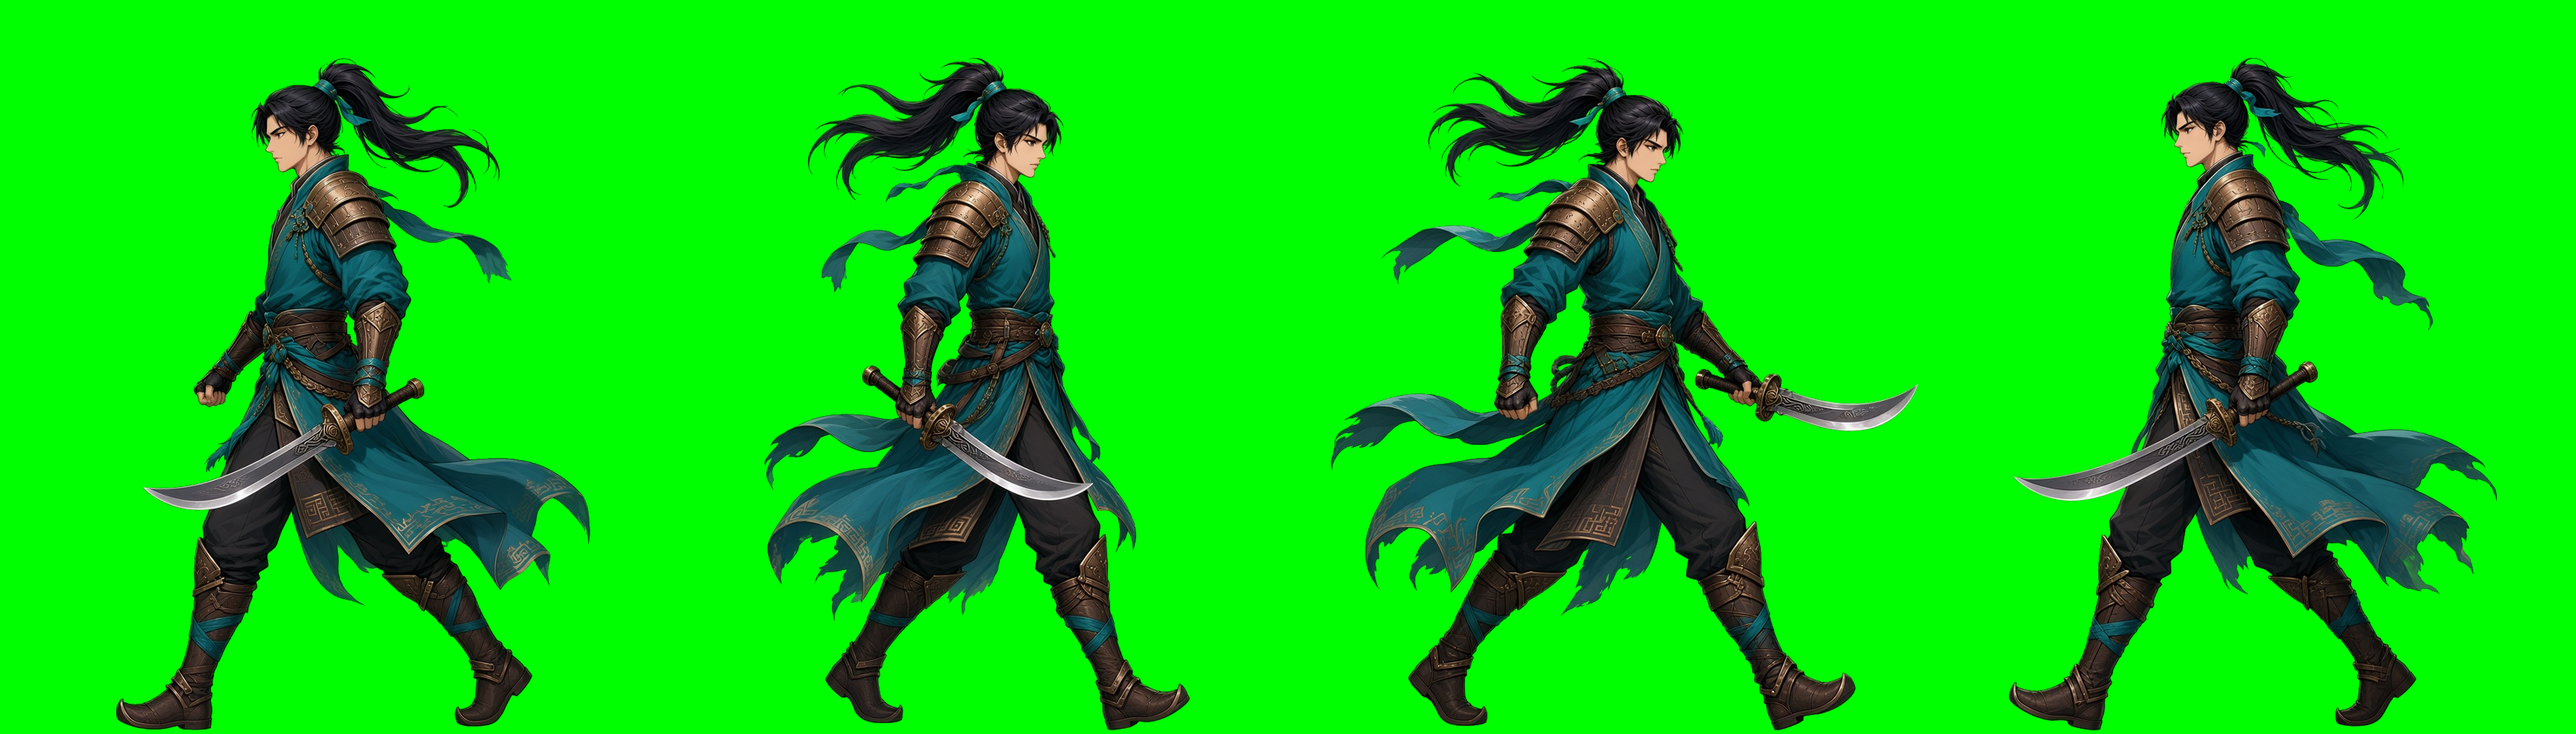
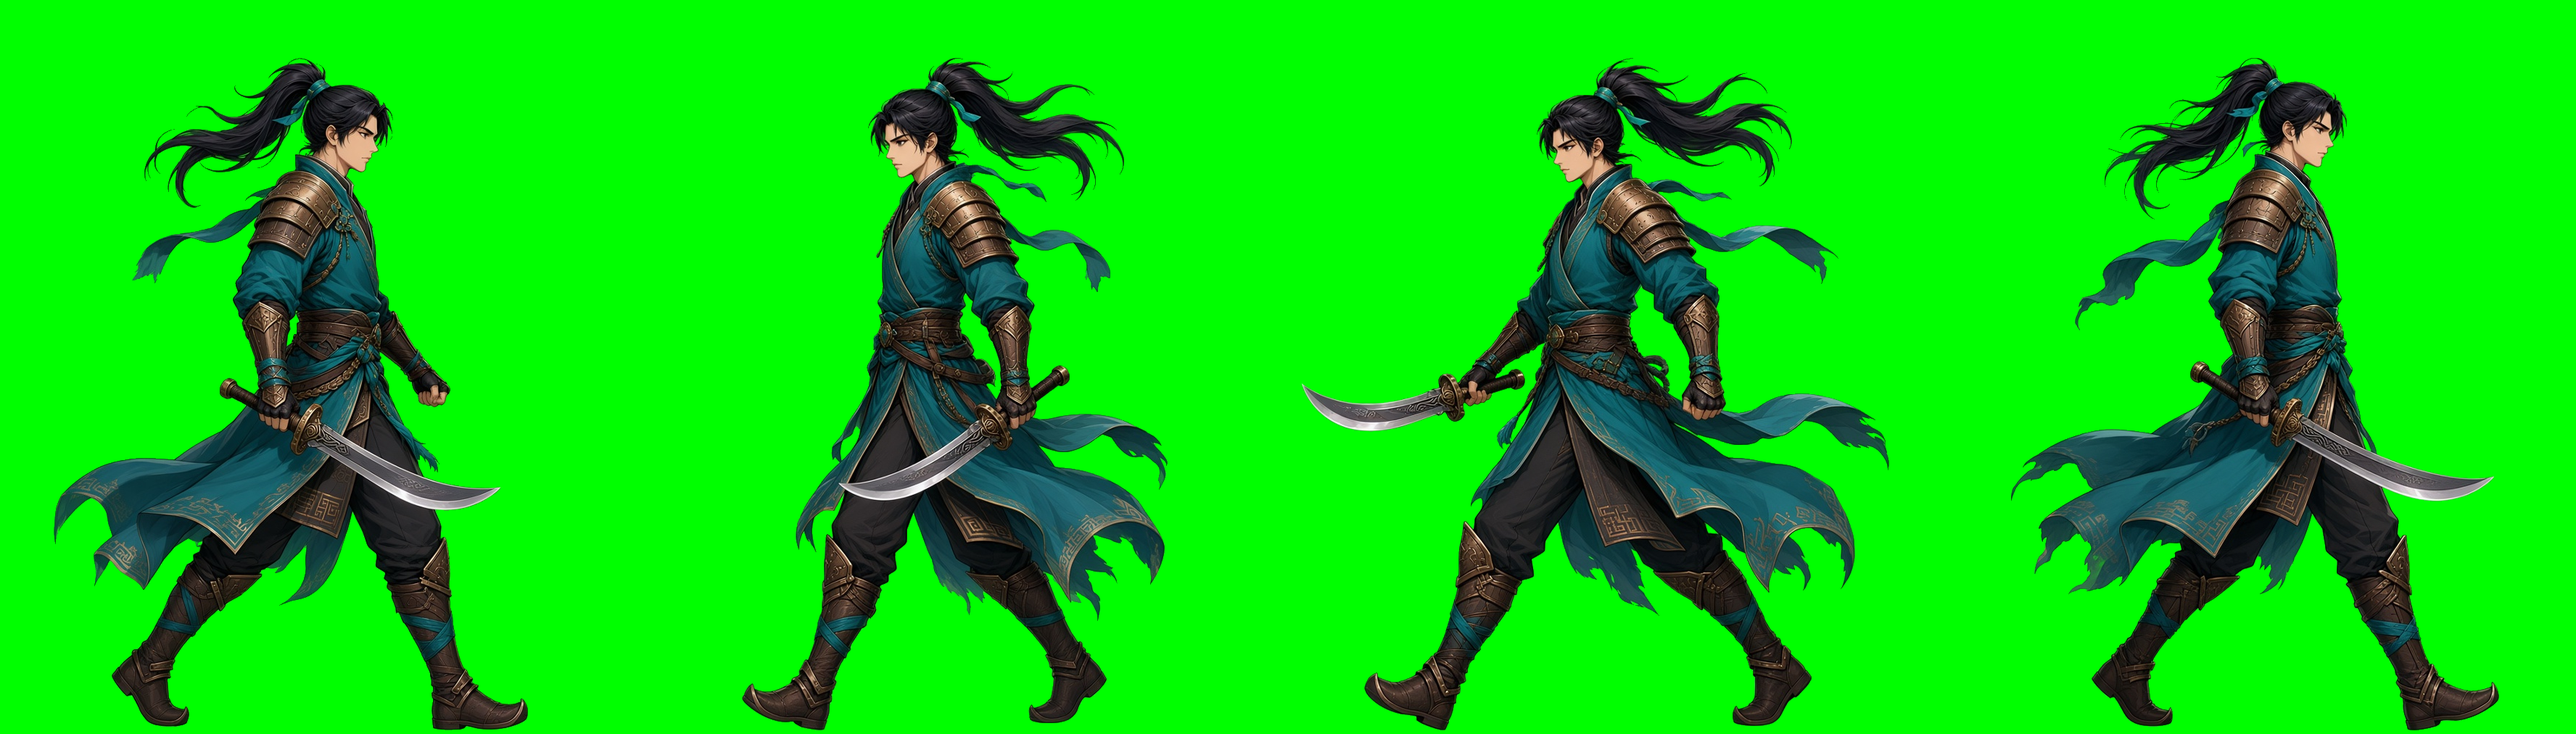
fix: 统一玩家素材朝向，解决走停时人物朝向反复翻转
根因：素材朝向不一致，而不是 flipX 判定错。
- walk@4.png 原生朝左（脸在左、马尾在右）
- 而同角色的 player.jpg / idle@2.png / walk@6.jpg / attack1@4.png 全部朝右
- Unity 端对所有状态用同一套 flipX 逻辑，于是「待机→走路→待机」
  切换时整个角色翻面 —— 看着就是人物朝向一直变

修复：
- 把 walk@4.png 整条帧条左右镜像，与其余立绘统一朝右。
  镜像不改变帧序，步态循环（张开→收拢→张开→收拢）完整保留；
  躯干轴仍落在格中心 444±2px，对齐未破坏。
- fix_player_walk.py 同步加入镜像步骤，否则以后重跑脚本会把朝向改回去。
  脚本输出与手工镜像结果 md5 一致，可从原始备份完整重现。
- 同步更新朝向注释。

flipX 公式（Cos(aim) > 0.15）两端均无需改动：素材统一朝右后，
flipX=true 恰好对应「朝屏幕左」。相机在 +z 看向 -z，屏幕左 = 世界 +x，
按 A 时 aim=0、Cos=+1 -> flipX=true -> 朝屏幕左 ✓

diff --git a/Tools/fix_player_walk.py b/Tools/fix_player_walk.py
@@ -1,16 +1,20 @@
-"""修好玩家行走帧条：帧内人物身体轴对齐到格中心。
+"""修好玩家行走帧条：帧内人物身体轴对齐到格中心，并把朝向统一成朝右。
 
 问题（实测）：
 - anim/player/walk@4.png 四帧的人物身体轴在格内摆动 143px（其余素材只有 ~14px），
   而 Unity 端 CutoutFrames 按「原图宽等分」切格、并把格中心当角色原点，
   于是每帧人物在世界空间左右横跳 —— 这就是「滑行」。
+- 这份素材原生朝左，而同角色其余立绘（char/player.jpg、anim/player/idle@2、
+  walk@6、attack1@4）全部朝右。Unity 端对所有状态用同一套 flipX 逻辑，
+  于是「待机→走路→待机」切换时角色会整个翻面 —— 看着就是「朝向一直变」。
 
 做法（沿用 Tools/既有流程与 Tex.cs 注释里的约定：
       「Python 端已把每帧人物按身体轴对齐到格中心，故等分即正确」）：
 1. 逐帧切出，按躯干（35%~60% 身高）不透明像素的质量中心算出「身体轴」x。
 2. 每帧横向平移，使身体轴落到格中心；空出来的地方补原背景绿。
 3. 竖直方向不动（各帧脚底 y 一致，保持「脚底同一水平线」）。
-4. 朝向不动：四帧原生都朝左，flipX 由代码统一处理。
+4. 朝向：整条帧条左右镜像，使四帧与角色其余立绘一致，都朝右。
+   镜像不改变帧序，步态循环（张开→收拢→张开→收拢）完整保留。
 
 产出仍是等宽帧条，Unity 端 CutoutFrames 不需要改动。
 """
@@ -64,9 +68,11 @@ def main():
             blank[:, dx:fw] = c[:, :fw - dx]
         else:
             blank[:, :fw + dx] = c[:, -dx:]
+        # 整帧左右镜像：与其余立绘统一朝右。镜像后身体轴对称，仍落在格中心。
+        blank = blank[:, ::-1]
         out.append(blank)
         print(f"f{f}: 身体轴 {axis:7.1f} → 平移 {dx:+d}px 后 = {axis + dx:.1f}"
-              f"（格中心 {fw / 2}）  脚底 y={ymax}")
+              f"（格中心 {fw / 2}）→ 镜像成朝右  脚底 y={ymax}")
 
     sheet = np.concatenate(out, axis=1)
     Image.fromarray(sheet).save(SRC)

diff --git a/SanguoLuanxing/Assets/Scripts/Game/WorldExplore.cs b/SanguoLuanxing/Assets/Scripts/Game/WorldExplore.cs
@@ -682,11 +682,14 @@ public class WorldExplore
 
         if (heroBody != null)
         {
-            // 走路帧朝左。有迈步动画时不再把整个人压扁，腿才看得清。
+            // 有迈步动画时不再把整个人压扁，腿才看得清。
             bool stepping = moving && anim != null && anim.Has("walk");
-            // 朝向判定要留死区：正上/正下走时 cos(aim) 就在 0 附近，
+            // 朝向：所有立绘素材（player.jpg / idle / walk）原生都朝右，
+            // 朝屏幕左才需要 flipX 翻转。
+            // 相机在 +z 看向 -z，所以屏幕左 = 世界 +x = aim 的 0 度方向，
+            // 即 Cos(aim) 越正越偏屏幕左。
+            // 留 0.15 死区：正上/正下走时 Cos 就在 0 附近，
             // 阈值卡在 0 会让整个人在左右两个方向之间反复翻转（看着像左右摇摆）。
-            // 用 0.15 的死区，只有明显偏向左右时才换朝向。
             heroBody.flipX = Mathf.Cos(aim) > 0.15f;
             float wob = stepping ? 1f : 1f + Mathf.Sin(moving ? moveTime * 12f : breath * 2f) * 0.02f;
             heroBody.transform.localScale = new Vector3(wob, wob, 1f);

diff --git a/SanguoLuanxing/Assets/Scripts/Game/PlayerCtrl.cs b/SanguoLuanxing/Assets/Scripts/Game/PlayerCtrl.cs
@@ -583,8 +583,9 @@ public class PlayerCtrl
             Body.transform.localRotation = Quaternion.identity;
         }
 
+        // 朝屏幕右（世界 -x）。所有立绘素材原生都朝右，朝左才需要 flipX 翻转。
         bool faceLeft = Mathf.Cos(Aim) < -0.15f;
-        // 新的待机立绘朝左；没有立绘时仍按旧的程序化朝向
+        // 没有立绘时仍按旧的程序化朝向
         if (!(anim != null && anim.Any && want != null && anim.Has(want)))
             Body.flipX = (anim != null && anim.Has("idle")) ? Mathf.Cos(Aim) > 0.15f : faceLeft;
         Body.transform.localScale = new Vector3(1f, stretch, 1f);
